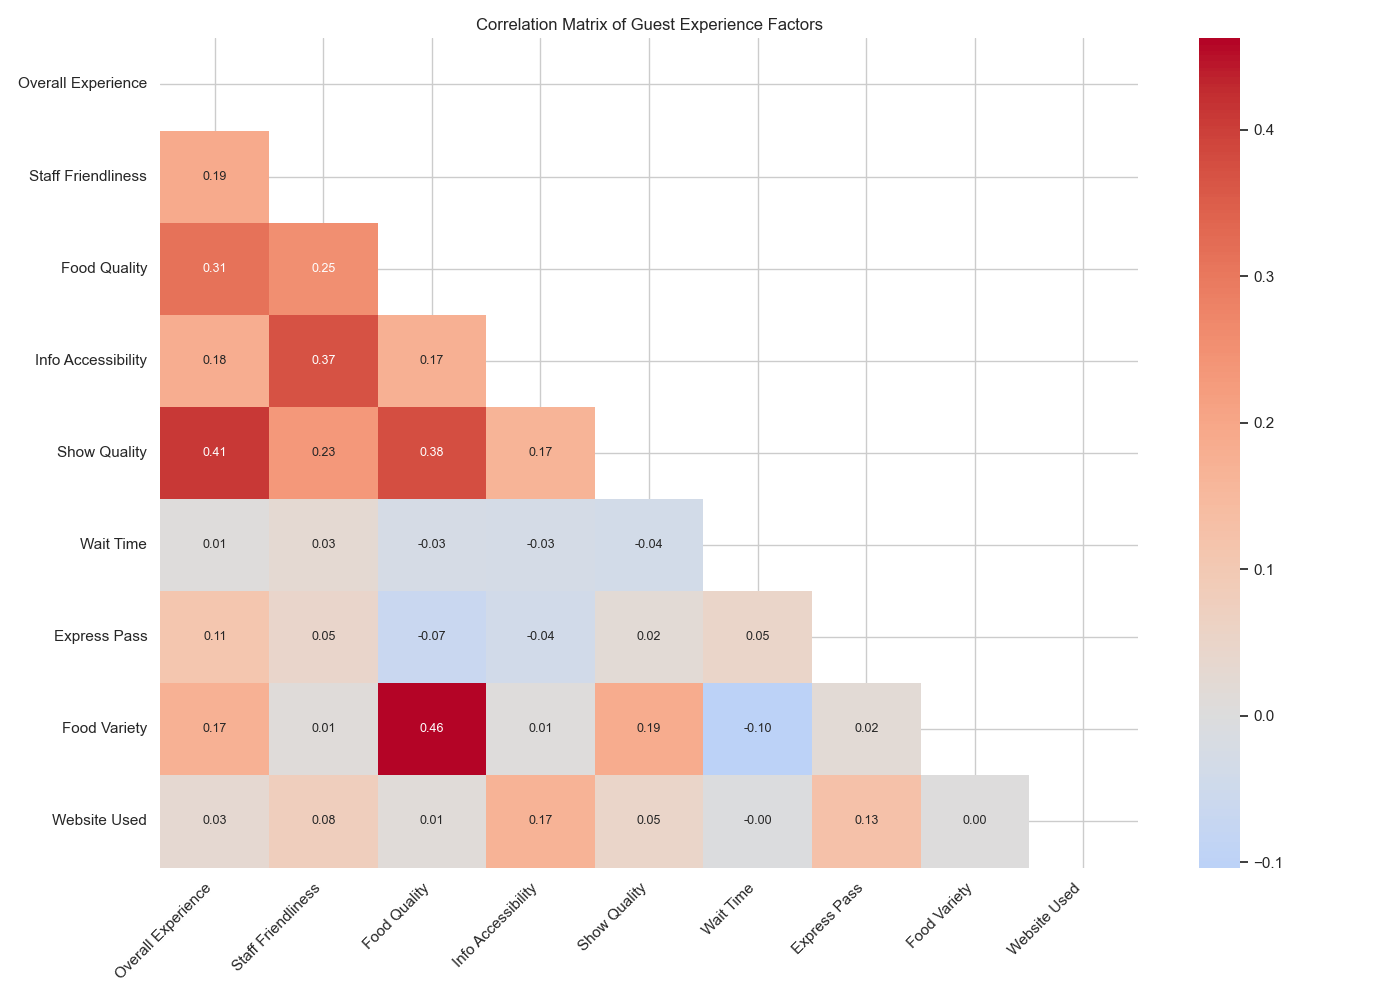
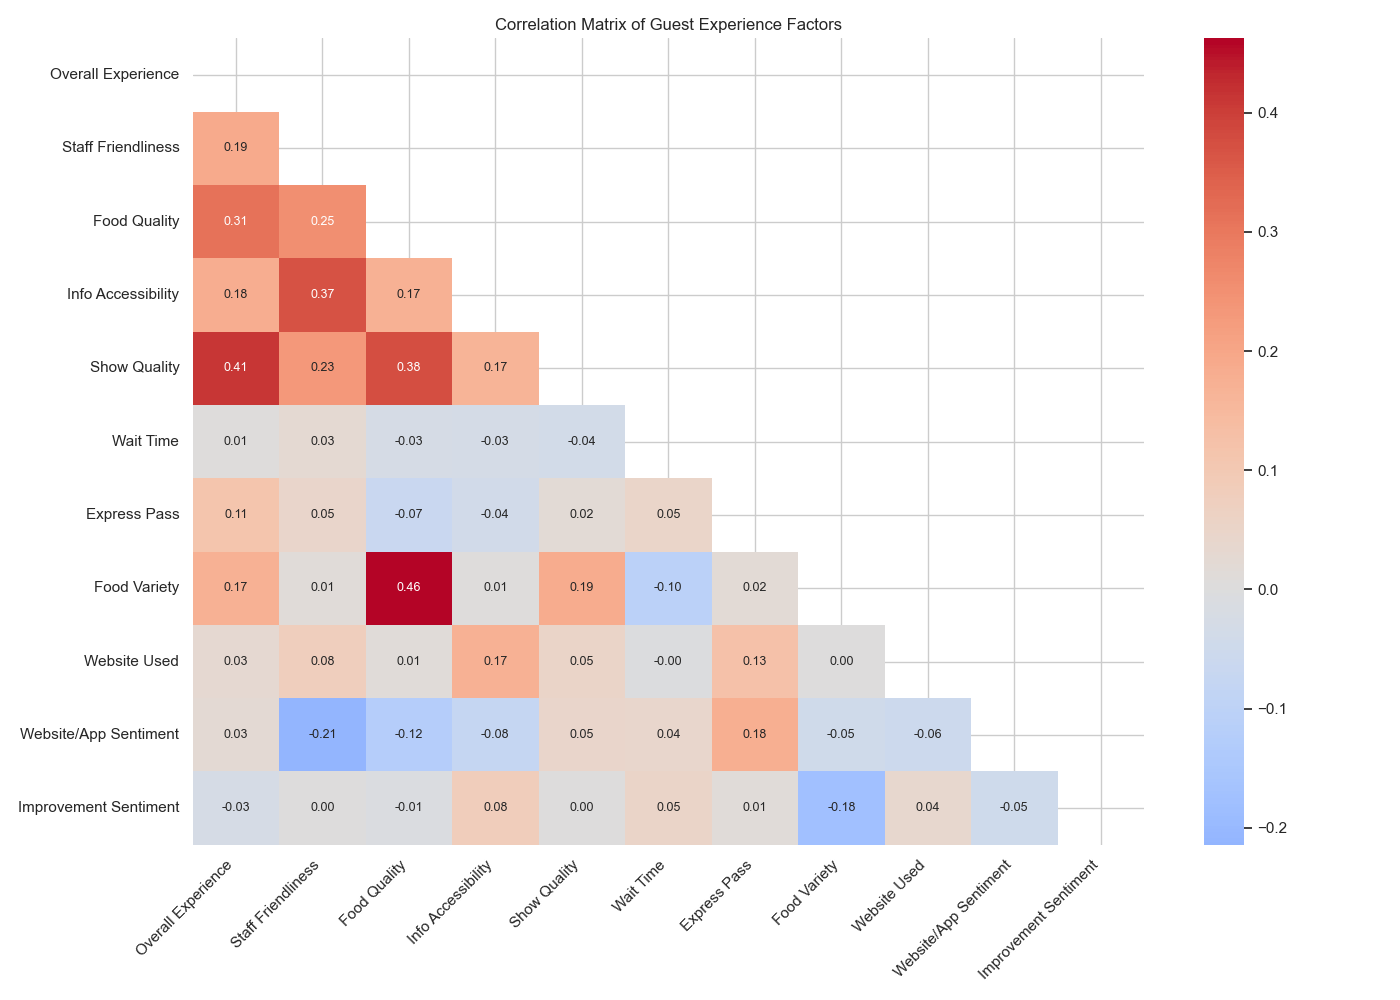
sentimental analysis

diff --git a/Scripts/Subgroup_A/guest_satisfaction.py b/Scripts/Subgroup_A/guest_satisfaction.py
@@ -8,6 +8,8 @@ import matplotlib
 matplotlib.use('Qt5Agg')  
 import matplotlib.pyplot as plt
 from pathlib import Path
+from textblob import TextBlob
+
 
 # Get the directory of the current script (guest_satisfaction.py)
 script_dir = Path(__file__).parent
@@ -175,6 +177,50 @@ def analyze_post_visit(df):
 
 analyze_post_visit(df)
 
+# 7. Sentiment Analysis Visualization
+
+# new column name 
+WEBSITE_FEEDBACK_COL = 'What feedback/suggestions would you like to provide for USS website/app?'
+IMPROVEMENTS_COL = 'What changes or improvements would make your next visit better?  ' 
+
+def get_sentiment(text):
+    if pd.isna(text) or str(text).strip() in ['', 'NIL', 'Nil', 'NA']:
+        return 0  # Neutral for empty/missing values
+    analysis = TextBlob(str(text))
+    return analysis.sentiment.polarity
+
+# Apply sentiment analysis 
+df['Website_App_Sentiment'] = df[WEBSITE_FEEDBACK_COL].apply(get_sentiment)
+df['Improvements_Sentiment'] = df[IMPROVEMENTS_COL].apply(get_sentiment)
+
+def analyze_sentiment(df):
+    # Plot sentiment distribution for website/app feedback
+    plt.figure()
+    sns.histplot(df['Website_App_Sentiment'], bins=np.arange(-1, 1.1, 0.1), kde=True)
+    plt.title('Sentiment Distribution for Website/App Feedback')
+    plt.xlabel('Sentiment Polarity (-1 to 1)')
+    plt.xlim(-1, 1)
+    plt.tight_layout()
+    plt.savefig('website_app_feedback_sentiment.png')
+    plt.show()
+
+    # Plot for improvement suggestions
+    plt.figure()
+    sns.histplot(df['Improvements_Sentiment'], bins=np.arange(-1, 1.1, 0.1), kde=True)
+    plt.title('Sentiment Distribution for Improvement Suggestions')
+    plt.xlabel('Sentiment Polarity (-1 to 1)')
+    plt.xlim(-1, 1)
+    plt.tight_layout()
+    plt.savefig('improvement_suggestions_sentiment.png')
+    plt.show()
+
+    # Calculate correlation with overall experience
+    sentiment_corr = df[['Website_App_Sentiment', 'Improvements_Sentiment',
+                        'On a scale of 1-5, how would you rate your overall experience at USS?']].corr()
+    print("\n=== Sentiment Correlation ===")
+    print(sentiment_corr)
+
+analyze_sentiment(df)
 
 def correlation_analysis(df):
     # Prepare data 
@@ -204,7 +250,9 @@ def correlation_analysis(df):
         'Wait Time Score': 'Wait Time',
         'Express Pass': 'Express Pass',
         'Food Variety': 'Food Variety',
-        'Website Used': 'Website Used'
+        'Website Used': 'Website Used',
+        'Website_App_Sentiment': 'Website/App Sentiment',
+        'Improvements_Sentiment': 'Improvement Sentiment'
     }
 
     # Rename the columns in the DataFrame
